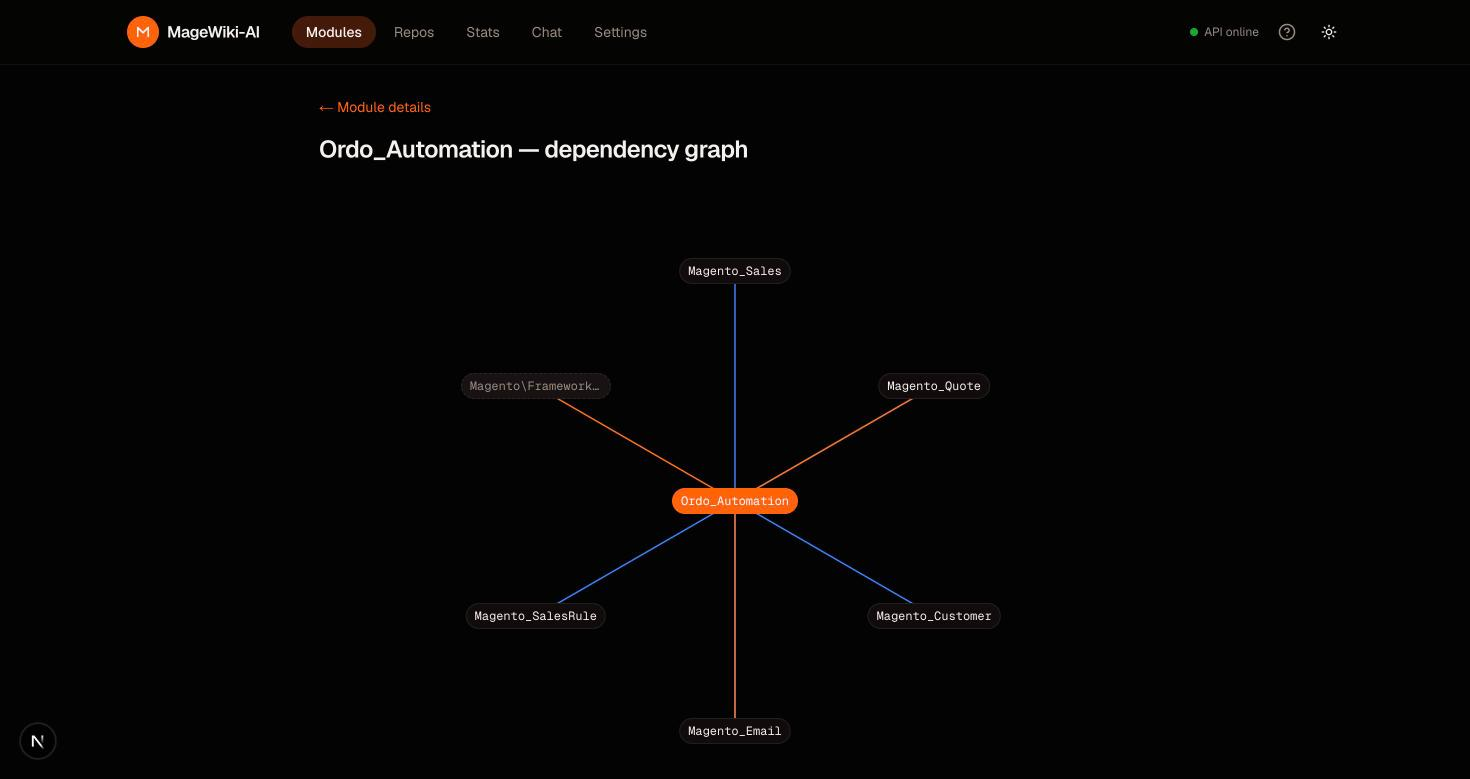
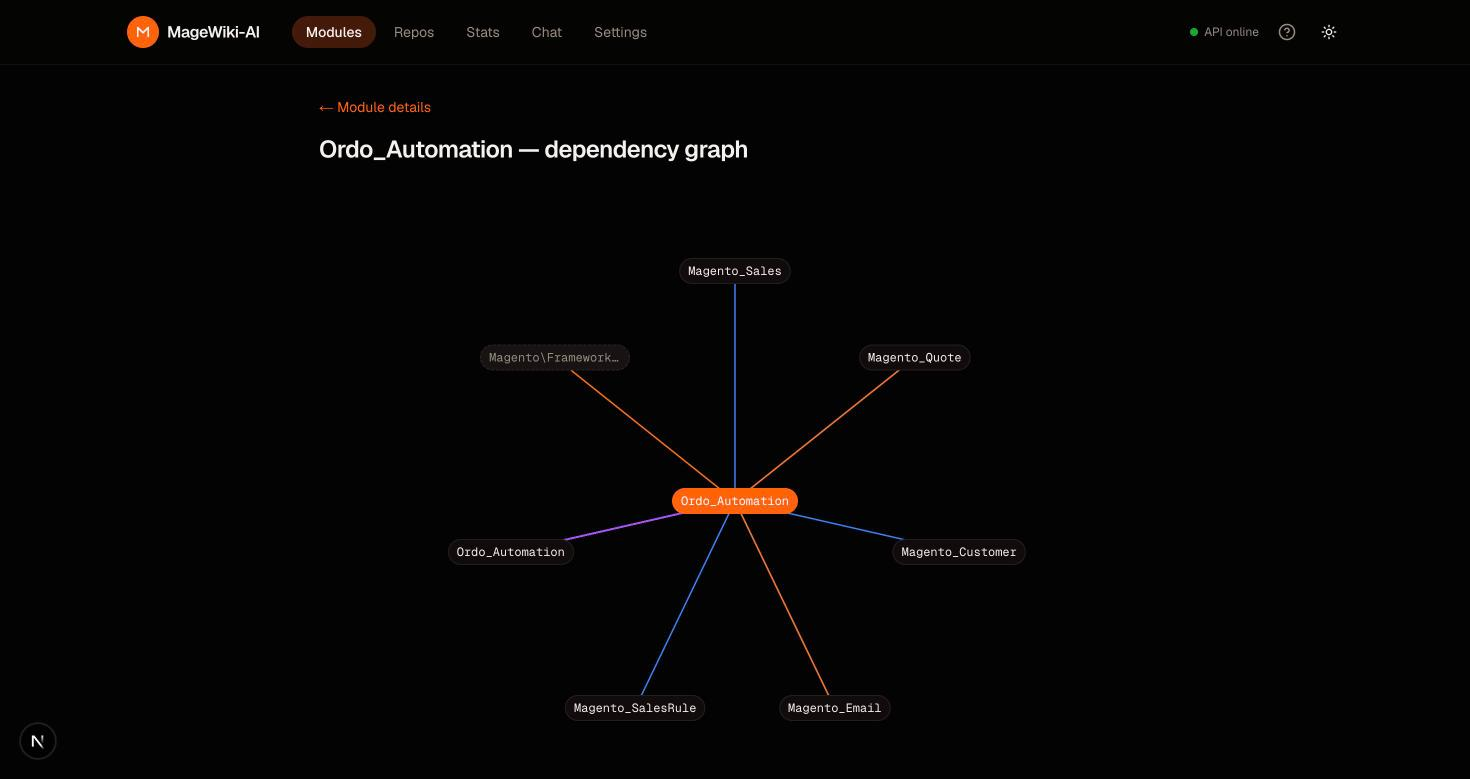
Refresh README screenshots and roadmap for Phases 15-17
Screenshots (modules, stats, dependency graph) were last captured before
this session's Phases 15-17 shipped -- recaptured against the real,
currently-scanned fleet (225 modules across magento-ordo-test). chat.jpg
left unchanged: recapturing it hit the real monthly LLM budget cap mid-
session, same as the last refresh -- the budget guardrail doing its job,
not a reason to spend more real API budget on a screenshot.

Also updated the project-status line and Roadmap checklist, which still
said "Phases 0-12b and 14 done" despite 15-17 shipping this session.

diff --git a/README.md b/README.md
@@ -14,7 +14,7 @@
 
 An AI-powered catalog and chat agent for Magento 2 codebases. MageWiki-AI scans Magento modules (`module.xml`, `composer.json`, `di.xml`, `events.xml`, `Plugin/` classes), builds a knowledge base in PostgreSQL, and lets developers and PMs ask natural-language questions about the architecture — with every answer citing the module and file it came from. It also runs a battery of quality, security, and Magento-upgrade-readiness checks on every scanned module and surfaces the results as badges, a stats dashboard, and a multi-repo fleet view — including **cross-module conflict detection**: two modules fighting over the same plugin hook, a Composer package version range, or a REST route don't fail quietly until someone hits the bug in production; MageWiki flags the exact pair and why.
 
-Project status: **Phases 0–12b and 14 done** (only Phase 13, cloud deployment, is deferred) — the MVP (v1.0, Phases 0–5) plus cron/webhook automation, BYOK in the UI, Ollama support, a per-module dependency graph, an evaluation suite, CI/CD, a local Kubernetes deployment, parser-only quality checks, CVE/dependency intelligence, a multi-repo fleet view, a real PHP static-analysis toolchain (PHPStan/PHPMD/phpcs/Rector), Magento-upgrade-readiness checking, and deeper structural facts (webapi/crontab/db_schema/system.xml). See [Roadmap](#roadmap) below and `CLAUDE.md` for the full design, including the recorded decision behind each phase.
+Project status: **Phases 0–12b and 14–17 done** (only Phase 13, cloud deployment, is deferred) — the MVP (v1.0, Phases 0–5) plus cron/webhook automation, BYOK in the UI, Ollama support, a per-module dependency graph, an evaluation suite, CI/CD, a local Kubernetes deployment, parser-only quality checks, CVE/dependency intelligence, a multi-repo fleet view, a real PHP static-analysis toolchain (PHPStan/PHPMD/phpcs/Rector), Magento-upgrade-readiness checking, deeper structural facts (webapi/crontab/db_schema/system.xml), a second round of cross-module conflict detection (`di.xml` preferences, `crontab.xml` jobs, GraphQL fields), per-module change history, and opt-in RAG query rewriting. See [Roadmap](#roadmap) below and `CLAUDE.md` for the full design, including the recorded decision behind each phase.
 
 **[See the full Wiki](https://github.com/michalper/magewiki/wiki)** for a screen-by-screen walkthrough — every screenshot there is a real scan of [Ordo_Automation](https://github.com/michalper/ordo), not a synthetic demo. **[See `docs/architecture.md`](docs/architecture.md)** for the reasoning behind the retrieval design, the anti-hallucination guarantees, and how LLM cost is kept bounded — the "why", not just the "what".
 
@@ -180,6 +180,9 @@ network-isolated container.
 - [x] **Phase 12b** — Magento upgrade readiness: PHP-version and `magento/*` dependency compatibility against the latest Magento release, refreshed via a daily cron
 - [ ] **Phase 13** — Cloud deployment (GCP/Azure via Terraform) — deferred, no cloud account/budget yet
 - [x] **Phase 14** — Deeper structural facts: `webapi.xml`, `crontab.xml`, `db_schema.xml`, `system.xml`, `di.xml` `virtualType`, and message-queue topology (`communication.xml`/`queue_topology.xml`/`queue_consumer.xml`)
+- [x] **Phase 15** — Cross-module conflict detection, round 2: `di.xml` `<preference>` conflicts, `crontab.xml` job-code conflicts, GraphQL field conflicts
+- [x] **Phase 16** — Module history: a per-scan-change snapshot table and a "what changed since last scan" view on every module page
+- [x] **Phase 17** — RAG query rewriting, opt-in (mirrors how reranking shipped — a second, independently budget-gated LLM call)
 
 Full detail (done-criteria, data model, RAG design, and the decision recorded behind each phase) per phase: see `CLAUDE.md`.
 
